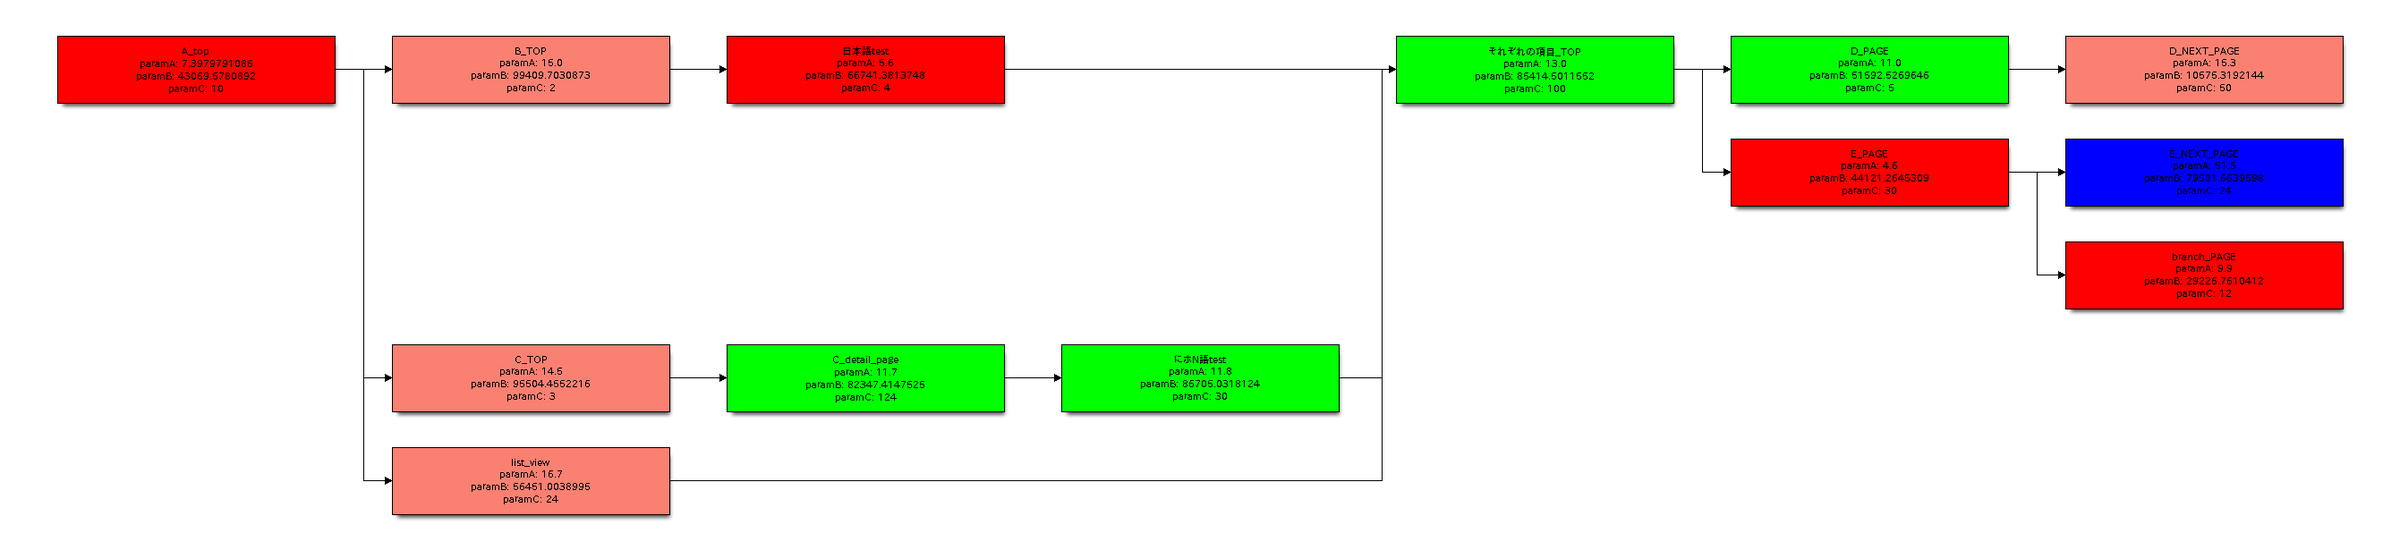
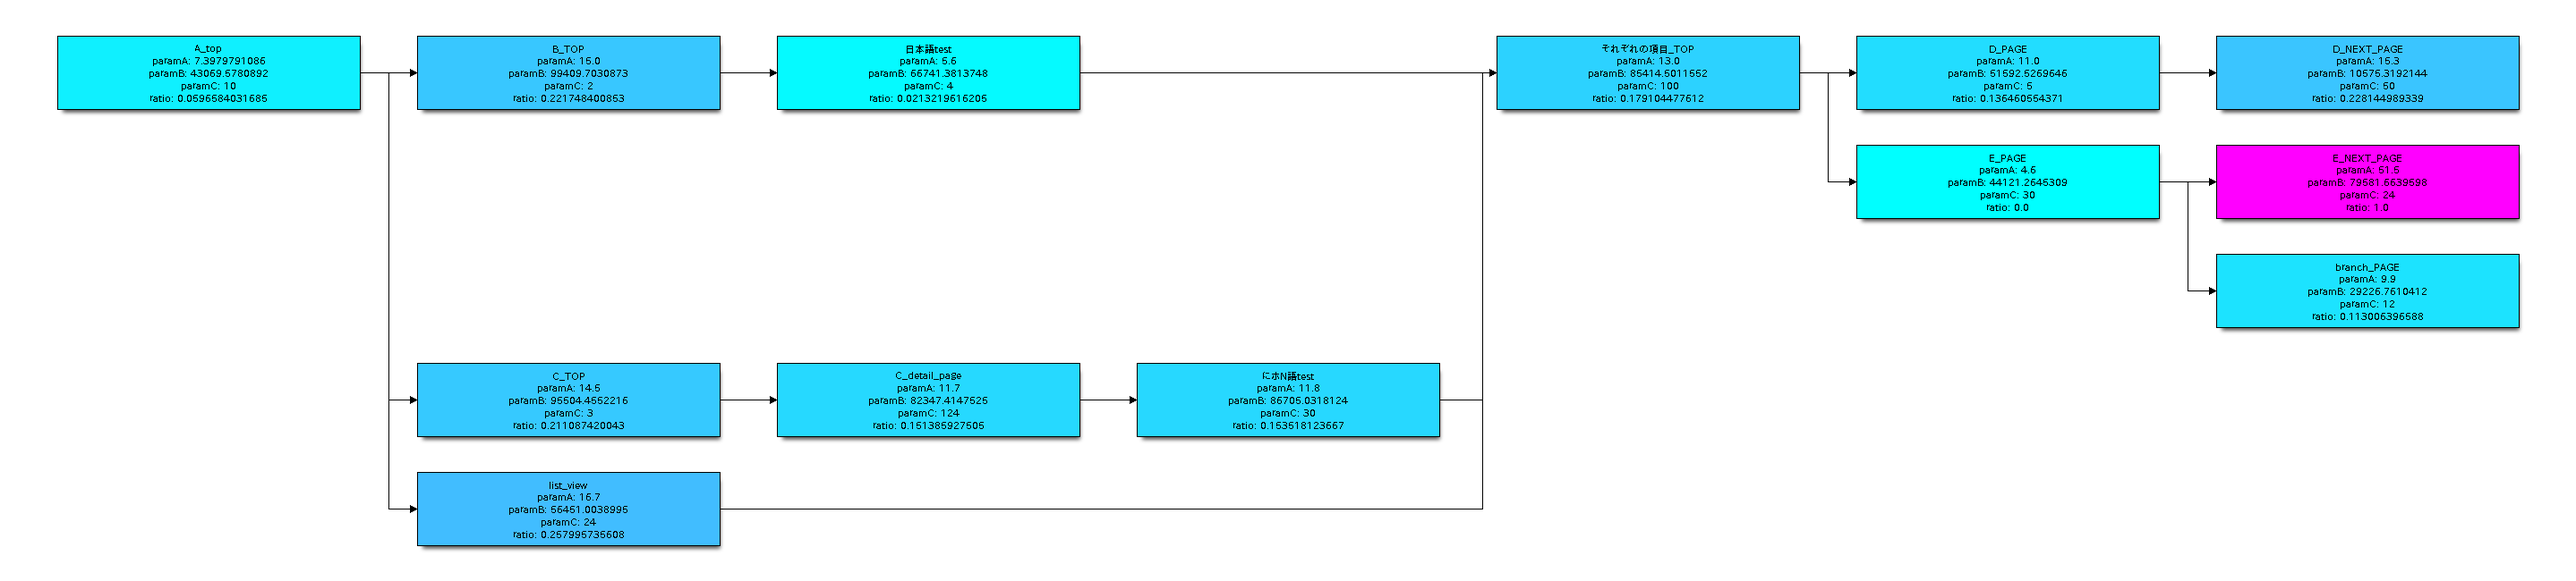
[add] color_map funciton

diff --git a/g2g.py b/g2g.py
@@ -82,7 +82,11 @@ def get_method_value(string: str) -> Optional[Tuple[str, List[float]]]:
         return None, None
     func = parse.parse("{}({})", string)
     if func is None:
-        return None, None
+        func_empty_arg = parse.parse("{}()", string)
+        if func_empty_arg is None:
+            return None, None
+        else:
+            return func_empty_arg[0], None
     name = func[0]
     args = func[1].split(",")
     return name, args
@@ -177,6 +181,14 @@ et
 
         if "color_map" in dic:
             color_map = dic["color_map"]
+            cmap = plt.cm.get_cmap(color_map)
+            mi = selected_row[column_name].min()
+            ma = selected_row[column_name].max()
+            selected_row["ratio"] = (selected_row[column_name] - mi)/(ma-mi)
+            for i, v in selected_row.iterrows():
+                color_value = cmap(v["ratio"])
+                color_code = '#%02X%02X%02X' % (int(color_value[3]*color_value[0]*255), int(color_value[3]*color_value[1]*255), int(color_value[3]*color_value[2]*255))
+                name_color_dict[v["名前"]] = color_code;
 
         elif "color" in dic:
             color = dic["color"]
@@ -254,8 +266,10 @@ def get_top(df_node, column_name, values):
     selected_row = selected_row.nlargest(value, column_name)
     return selected_row
 
+def all_row(df_node, column_name, values):
+    return df_node
+
 def min_max(df_node, column_name, values):
-    print(values)
     values[0].replace(" ", "")
     values[1].replace(" ", "")
     selected_row = df_node.copy();
@@ -264,7 +278,6 @@ def min_max(df_node, column_name, values):
 
     mini = df_node[column_name].min()
     maxi = df_node[column_name].max()
-    print(mini, maxi)
 
     if values[0][-3:] == "per":
         values[0] = (maxi - mini)*float(values[0][:-3])/100.0 + mini
@@ -278,6 +291,7 @@ def min_max(df_node, column_name, values):
     return selected_row
 
 default_selector_method_dict = {
+    "ALL": all_row,
     "TOP": get_top,
     "MINMAX": min_max,
 }
@@ -290,7 +304,6 @@ if __name__ == '__main__':
     print(selector_color_dicts)
     # row name:color dict
     name_color_dict = get_name_color_dict(df_node,df_color.columns[0],default_selector_method_dict, selector_color_dicts)
-    exit(df_node)
     # output file
     to_diag("sample/out.diag", "sample/map.diag", df_node, name_color_dict)
     blockdiag_main(["-Tpdf", "sample/out.diag"]) # output pdf
